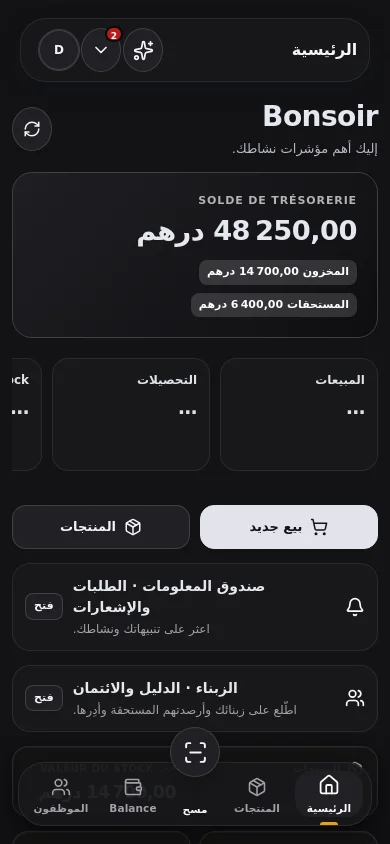
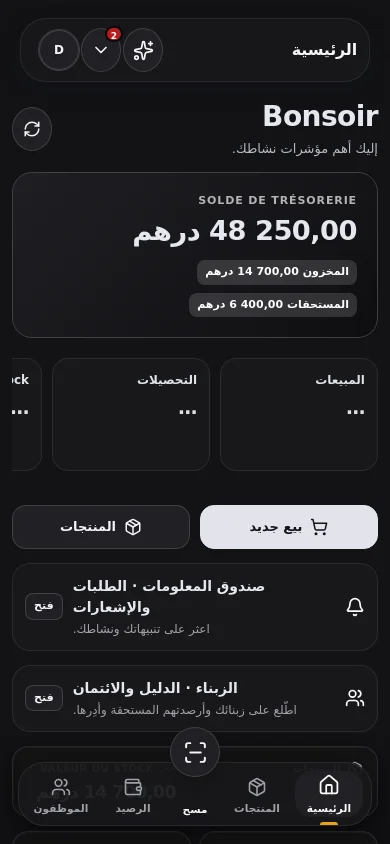
Polish Arabic RTL numbers and localized navigation

Changed region(s): [[0.3385, 0.2464, 0.6462, 0.3697], [0.2769, 0.955, 0.4, 0.9858]]

diff --git a/src/mobile/PhoneApp.tsx b/src/mobile/PhoneApp.tsx
@@ -1196,8 +1196,8 @@ export function PhoneProduits({ products, actions, onRefresh, onToast, loading =
     </div>
     <div className="ph-catalog-filters" role="group" aria-label="Filtrer les produits">
       <button type="button" aria-pressed={filter === 'all'} onClick={() => setFilter('all')}>Tous</button>
-      <button type="button" aria-pressed={filter === 'low'} onClick={() => setFilter('low')}>À réappro. ({lowCount})</button>
-      <button type="button" aria-pressed={filter === 'requests'} onClick={() => setFilter('requests')}>{getRole() === 'owner' || getRole() === 'admin' ? 'À valider' : 'Mes demandes'} ({requests.length})</button>
+      <button type="button" aria-pressed={filter === 'low'} onClick={() => setFilter('low')}><span>À réappro.</span> (<bdi dir="ltr">{lowCount}</bdi>)</button>
+      <button type="button" aria-pressed={filter === 'requests'} onClick={() => setFilter('requests')}><span>{getRole() === 'owner' || getRole() === 'admin' ? 'À valider' : 'Mes demandes'}</span> (<bdi dir="ltr">{requests.length}</bdi>)</button>
     </div>
     {showCreate && <PhoneProductCreate onClose={() => setShowCreate(false)} onCreated={(createdDirectly) => { setShowCreate(false); onToast(createdDirectly ? 'Produit créé au catalogue' : 'Demande envoyée à l’Admin'); onRefresh(createdDirectly ? 'products' : 'actions'); }} />}
     {filter !== 'requests' && loading && ready && <div className="ph-refresh-status" role="status">Actualisation du catalogue…</div>}
@@ -1205,10 +1205,10 @@ export function PhoneProduits({ products, actions, onRefresh, onToast, loading =
     {filter === 'requests' && actionsLoading && actionsReady && <div className="ph-refresh-status" role="status">Actualisation des demandes…</div>}
     {filter === 'requests' && actionsError && <p role="alert" className="ph-catalog-error">Impossible de charger les demandes. {actionsReady ? 'Les dernières données restent affichées.' : 'Vérifiez la connexion.'} <button type="button" onClick={() => onRefresh('actions')}>Réessayer</button></p>}
     {filter === 'requests' && !actionsReady && actionsLoading ? <PhoneSkeleton variant="rows" label="Chargement des demandes" /> : filter === 'requests' && !actionsReady ? null : filter !== 'requests' && !ready && loading ? <PhoneSkeleton variant={grid ? 'catalog-grid' : 'catalog-list'} label="Chargement du catalogue" /> : filter !== 'requests' && !ready ? null : filter === 'requests' ? <div className="ph-catalog-list">{requests.length ? requests.map(a => <div className="ph-catalog-card" key={a.id}><div className="ph-catalog-icon"><Package size={22} /></div><div><strong>{a.title}</strong><p>{a.detail || 'Demande en attente'}</p><small>En attente</small></div></div>) : <div className="ph-empty"><h2>Aucune demande en attente</h2></div>}</div> : <>
-      <div className="ph-catalog-summary" aria-live="polite"><span>{visible.length} résultat{visible.length === 1 ? '' : 's'}</span></div>
+      <div className="ph-catalog-summary" aria-live="polite"><span><bdi dir="ltr">{visible.length}</bdi> <span>{visible.length === 1 ? 'résultat' : 'résultats'}</span></span></div>
       <div className={`ph-catalog-list${grid ? ' is-grid' : ''}`}>{visible.map(p => <NavLink className="ph-catalog-card ph-catalog-product" to={`/m/products/${p.id}/historique`} key={p.id}>
         <ProductArtwork url={p.image_url} largeImageProductId={p.image_inline_large ? p.id : undefined} className="ph-catalog-art" />
-        <div className="ph-catalog-info"><strong>{p.name}</strong><p>{p.sku || p.barcode || 'Sans référence'}</p><small className={phoneStockIsLow(p) ? 'ph-low' : ''}>{p.track_inventory != null && !Number(p.track_inventory) ? 'Stock non suivi' : `Stock : ${dualStockLabel(p)} · min ${minOf(p)}`}</small></div>
+        <div className="ph-catalog-info"><strong translate="no" dir="auto">{p.name}</strong><p>{p.sku || p.barcode ? <bdi dir="ltr" translate="no">{p.sku || p.barcode}</bdi> : 'Sans référence'}</p><small className={phoneStockIsLow(p) ? 'ph-low' : ''}>{p.track_inventory != null && !Number(p.track_inventory) ? 'Stock non suivi' : <><span>Stock :</span> <bdi dir="ltr">{dualStockLabel(p)}</bdi> · <span>min</span> <bdi dir="ltr">{minOf(p)}</bdi></>}</small></div>
         {canSell() && typeof (p.unit_price ?? p.price) === 'number' && <strong className="ph-catalog-price">{priceOf(p).toLocaleString('fr-FR')} MAD</strong>}
       </NavLink>)}</div>
       {visible.length === 0 && <div className="ph-empty"><h2>Aucun produit</h2><p>Essayez une autre recherche ou actualisez le catalogue.</p></div>}

diff --git a/src/lib/pageTitle.ts b/src/lib/pageTitle.ts
@@ -1,11 +1,28 @@
+import { translate, type Lang } from '../i18n/core';
+
 /** Unique document titles per route — all under 60 characters. */
 
 const BRAND = 'Atlas';
 
 /** Exact path → title (no brand suffix yet). */
 const EXACT: Record<string, string> = {
-  '/': 'Tableau de bord',
+  '/': 'Accueil',
   '/dashboard': 'Tableau de bord',
+  '/android': 'Application Android',
+  '/download': 'Application Android',
+  '/desktop': 'Application bureau',
+  '/m': 'Accueil',
+  '/m/products': 'Produits & stock',
+  '/m/scan': 'Scan code-barres',
+  '/m/vente': 'Vente rapide',
+  '/m/balance': 'Solde & mouvements',
+  '/m/bills': "Factures d'achat",
+  '/m/employees': 'Employés',
+  '/m/warehouse': 'Opérations stock',
+  '/m/invoice': 'Devis',
+  '/m/settings': 'Paramètres',
+  '/m/agent': 'Atlas Agent',
+  '/m/more': 'Paramètres',
   '/actions': 'Actions en attente',
   '/products': 'Produits & stock',
   '/scan': 'Scan code-barres',
@@ -38,30 +55,31 @@ const EXACT: Record<string, string> = {
   '/403': 'Accès refusé',
 };
 
-function withBrand(page: string): string {
-  const full = `${page} · ${BRAND}`;
-  return full.length <= 60 ? full : page.slice(0, 60);
+function withBrand(page: string, lang: Lang): string {
+  const localPage = translate(page, lang);
+  const full = `${localPage} · ${translate(BRAND, lang)}`;
+  return full.length <= 60 ? full : localPage.slice(0, 60);
 }
 
 /**
  * Resolve a unique <title> for a location pathname.
  * Dynamic segments (ids) get a stable generic title.
  */
-export function titleForPath(pathname: string): string {
+export function titleForPath(pathname: string, lang: Lang = 'fr'): string {
   const path = (pathname || '/').replace(/\/+$/, '') || '/';
 
-  if (EXACT[path]) return withBrand(EXACT[path]);
+  if (EXACT[path]) return withBrand(EXACT[path], lang);
 
   // Dynamic desktop routes
-  if (/^\/p\/[^/]+$/.test(path)) return withBrand('Détail produit');
-  if (/^\/products\/[^/]+\/historique$/.test(path)) return withBrand('Historique du produit');
-  if (/^\/quick-sale\/[^/]+$/.test(path)) return withBrand('Détail vente rapide');
-  if (/^\/invoices\/[^/]+$/.test(path)) return withBrand('Détail facture');
-  if (/^\/error\/[^/]+$/.test(path)) return withBrand('Erreur');
-  if (path.startsWith('/settings')) return withBrand('Paramètres');
-  if (path === '/m-legacy') return withBrand('Mobile');
+  if (/^\/p\/[^/]+$/.test(path)) return withBrand('Détail produit', lang);
+  if (/^\/products\/[^/]+\/historique$/.test(path)) return withBrand('Historique du produit', lang);
+  if (/^\/quick-sale\/[^/]+$/.test(path)) return withBrand('Détail vente rapide', lang);
+  if (/^\/invoices\/[^/]+$/.test(path)) return withBrand('Détail facture', lang);
+  if (/^\/error\/[^/]+$/.test(path)) return withBrand('Erreur', lang);
+  if (path.startsWith('/settings')) return withBrand('Paramètres', lang);
+  if (path === '/m-legacy') return withBrand('Mobile', lang);
 
-  return withBrand('Atlas Commerce');
+  return withBrand('Atlas Commerce', lang);
 }
 
 const DEFAULT_DESC =
@@ -83,8 +101,8 @@ function setMeta(attr: 'name' | 'property', key: string, content: string) {
 }
 
 /** Title + Open Graph / Twitter cards for the current route. */
-function applyPageMeta(pathname: string): void {
-  const title = titleForPath(pathname);
+function applyPageMeta(pathname: string, lang: Lang): void {
+  const title = titleForPath(pathname, lang);
   try {
     document.title = title;
   } catch {
@@ -103,6 +121,6 @@ function applyPageMeta(pathname: string): void {
 }
 
 // Keep legacy name working
-export function applyPageTitle(pathname: string): void {
-  applyPageMeta(pathname);
+export function applyPageTitle(pathname: string, lang: Lang = 'fr'): void {
+  applyPageMeta(pathname, lang);
 }

diff --git a/src/i18n/messages.ts b/src/i18n/messages.ts
@@ -704,7 +704,7 @@ export const MESSAGES: ReadonlyArray<readonly [string, string, string]> = [
   ["Vérification par QR", "QR verification", "التحقق برمز QR"],
   ["Vos clients scannent et vérifient l’authenticité d’un reçu en une seconde.", "Your customers can scan and verify a receipt in seconds.", "يمكن لعملائك مسح الإيصال والتحقق من صحته في ثوانٍ."],
   ["Agent IA intégré", "Built-in AI agent", "وكيل ذكاء اصطناعي مدمج"],
-  ["Posez vos questions en français et explorez vos données selon vos permissions. Exemple fictif ci-dessus.", "Ask questions in French and explore data according to your permissions. Fictional example above.", "اطرح أسئلتك بالفرنسية واستكشف بياناتك وفق صلاحياتك. المثال أعلاه وهمي."],
+  ["Posez vos questions dans votre langue et explorez vos données selon vos permissions. Exemple fictif ci-dessus.", "Ask questions in your language and explore data according to your permissions. Fictional example above.", "اطرح أسئلتك بلغتك واستكشف بياناتك وفق صلاحياتك. المثال أعلاه وهمي."],
   ["02 / AU QUOTIDIEN", "02 / DAY TO DAY", "02 / في عملك اليومي"],
   ["Moins d’allers-retours. Plus de clarté.", "Less back-and-forth. More clarity.", "تنقل أقل. وضوح أكثر."],
   ["Une vue d’ensemble pour passer du produit à la vente, puis retrouver les informations qui comptent.", "An overview from product to sale, with the information that matters.", "نظرة شاملة من المنتج إلى البيع، مع المعلومات المهمة في متناولك."],
@@ -1704,4 +1704,28 @@ export const MESSAGES: ReadonlyArray<readonly [string, string, string]> = [
   ["Grille", "Grid", "شبكة"],
   ["Référence", "Reference", "المرجع"],
   ["≤ seuil", "≤ threshold", "≤ الحد"],
+  // Navigation titles, language picker and mobile catalogue
+  ["Terminé", "Done", "تم"],
+  ["Stock :", "Stock:", "المخزون:"],
+  ["min", "min", "الحد الأدنى"],
+  ["HT", "Before tax", "قبل الضريبة"],
+  ["TTC", "Total", "الإجمالي"],
+  ["Actions en attente", "Pending actions", "الإجراءات المعلقة"],
+  ["Scan code-barres", "Barcode scan", "مسح الباركود"],
+  ["Clôtures de caisse (X / Z)", "Cash closings (X / Z)", "إغلاق الصندوق (X / Z)"],
+  ["Support & assistance", "Support & assistance", "الدعم والمساعدة"],
+  ["Page introuvable", "Page not found", "الصفحة غير موجودة"],
+  ["Accès refusé", "Access denied", "الوصول مرفوض"],
+  ["Détail produit", "Product details", "تفاصيل المنتج"],
+  ["Historique du produit", "Product history", "سجل المنتج"],
+  ["Détail vente rapide", "Quick sale details", "تفاصيل البيع السريع"],
+  ["Mobile", "Mobile", "الهاتف"],
+  ["Application bureau", "Desktop application", "تطبيق سطح المكتب"],
+  ['Erreur', 'Error', 'خطأ'],
+  ['{n} k', '{n}k', '{n} ألف'],
+  ['À réappro.', 'Low stock', 'بحاجة للتزويد'],
+  ['À valider', 'To approve', 'بانتظار الموافقة'],
+  ['Mes demandes', 'My requests', 'طلباتي'],
+  ['résultat', 'result', 'نتيجة'],
+  ['résultats', 'results', 'نتائج'],
 ];

diff --git a/src/components/home/FeatureDemos.tsx b/src/components/home/FeatureDemos.tsx
@@ -5,6 +5,7 @@
  * Purely illustrative — every block is aria-hidden behind a figure label.
  */
 import type { ReactNode } from 'react';
+import { useLang } from '../../i18n/core';
 import { ArrowUp, Box, FileText, Package, Pencil, QrCode, SlidersHorizontal, Sparkles, Trash2 } from 'lucide-react';
 
 function Frame({ label, className, children }: { label: string; className: string; children: ReactNode }) {
@@ -40,11 +41,13 @@ function ProductCard({ name, sku, price, qty, stock, tone }: { name: string; sku
 }
 
 export function StockDemo() {
+  const lang = useLang();
+  const names = lang === 'ar' ? ['رخام كارارا أبيض', 'غرانيت زيمبابوي أسود'] : lang === 'en' ? ['White Carrara marble', 'Black Zimbabwe granite'] : ['Marbre Carrara blanc', 'Granit noir Zimbabwe'];
   return (
     <Frame label="Catalogue produits Atlas : cartes produit avec niveaux de stock (données fictives)" className="hm-live-stock">
       <div className="hl-pgrid">
-        <ProductCard name="Marbre Carrara blanc" sku="MAR-001 · Marbre" price="420 MAD" qty="42 m²" stock="ok" tone="stone" />
-        <ProductCard name="Granit noir Zimbabwe" sku="GRA-014 · Granit" price="560 MAD" qty="6 m²" stock="low" tone="night" />
+        <ProductCard name={names[0]} sku="MAR-001 · Marbre" price="420 MAD" qty="42 m²" stock="ok" tone="stone" />
+        <ProductCard name={names[1]} sku="GRA-014 · Granit" price="560 MAD" qty="6 m²" stock="low" tone="night" />
       </div>
     </Frame>
   );
@@ -81,6 +84,7 @@ export function SalesDemo() {
 }
 
 export function InvoiceDemo() {
+  const lang = useLang();
   return (
     <Frame label="Lignes d’une facture de vente avec totaux HT, TVA et TTC (données fictives)" className="hm-live-invoice">
       <div className="hl-panel">
@@ -89,14 +93,14 @@ export function InvoiceDemo() {
           <span className="hl-badge is-success">Payée</span>
         </div>
         <div className="hl-lines">
-          <div className="hl-line"><span>Marbre Carrara blanc — 60×60</span><i>24 × 420</i><b>10 080</b></div>
-          <div className="hl-line"><span>Onyx miel — plan vasque</span><i>2 × 1 850</i><b>3 700</b></div>
+          <div className="hl-line"><span>{lang === 'ar' ? 'رخام كارارا أبيض' : lang === 'en' ? 'White Carrara marble' : 'Marbre Carrara blanc'} — <bdi dir="ltr">60×60</bdi></span><i>24 × 420</i><b>10 080</b></div>
+          <div className="hl-line"><span>{lang === 'ar' ? 'أونيكس عسلي — سطح مغسلة' : lang === 'en' ? 'Honey onyx — vanity top' : 'Onyx miel — plan vasque'}</span><i>2 × 1 850</i><b>3 700</b></div>
         </div>
         <div className="hl-totals">
           <span className="hl-pill is-dark"><FileText size={10} />PDF</span>
           <span className="hl-pill"><QrCode size={10} />QR</span>
           <span className="hl-grow" />
-          <span className="hl-tot"><i>HT 13 780</i><i>TVA 2 756</i><b>TTC 16 536 MAD</b></span>
+          <span className="hl-tot"><i><span>HT</span> <bdi dir="ltr">13 780</bdi></i><i><span>TVA</span> <bdi dir="ltr">2 756</bdi></i><b><span>TTC</span> <span className="hl-currency"><bdi dir="ltr">16 536</bdi> <span>MAD</span></span></b></span>
         </div>
       </div>
     </Frame>

diff --git a/src/__tests__/i18n-core.test.ts b/src/__tests__/i18n-core.test.ts
@@ -66,11 +66,11 @@ describe('i18n core', () => {
     retranslateAll(); await tick();
     expect(document.querySelector('.amount')!.textContent).toBe('1 260 DH');
     setLang('ar'); retranslateAll(); await tick();
-    expect(document.querySelector('.amount')!.textContent).toBe('\u20671 260 درهم\u2069');
-    expect(document.querySelector('.dh')!.textContent).toBe('\u206742 درهم\u2069');
-    expect(document.querySelector('.area')!.textContent).toBe('\u206742 م²\u2069');
-    expect(document.querySelector('.mass')!.textContent).toBe('\u2067-2,5 كغ\u2069');
-    expect(document.querySelector('.volume')!.textContent).toBe('\u20673 م³\u2069');
+    expect(document.querySelector('.amount')!.textContent).toBe('\u2067\u20661\u00a0260\u2069\u00a0درهم\u2069');
+    expect(document.querySelector('.dh')!.textContent).toBe('\u2067\u206642\u2069\u00a0درهم\u2069');
+    expect(document.querySelector('.area')!.textContent).toBe('\u2067\u206642\u2069\u00a0م²\u2069');
+    expect(document.querySelector('.mass')!.textContent).toBe('\u2067\u2066-2,5\u2069\u00a0كغ\u2069');
+    expect(document.querySelector('.volume')!.textContent).toBe('\u2067\u20663\u2069\u00a0م³\u2069');
     expect(document.querySelector('[data-user-data]')!.textContent).toBe('Model MAD 12');
     setLang('en'); await tick();
     expect(document.querySelector('.amount')!.textContent).toBe('1 260 MAD');
@@ -79,12 +79,12 @@ describe('i18n core', () => {
   });
 
   it('translates textarea placeholders and day abbreviations without altering input', async () => {
-    document.body.innerHTML = '<textarea placeholder="Décrivez le module concerné, les étapes effectuées et le résultat attendu...">Texte personnel</textarea><span>31–60 j</span>';
+    document.body.innerHTML = '<textarea placeholder="Décrivez le module concerné, les étapes effectuées et le résultat attendu...">Texte personnel</textarea><span>1–30 j</span>';
     setLang('ar'); retranslateAll(); await tick();
     const field = document.querySelector('textarea')!;
     expect(field.placeholder).toContain('صِف الوحدة');
     expect(field.value).toBe('Texte personnel');
-    expect(document.querySelector('span')!.textContent).toBe('\u206731–60 يوم\u2069');
+    expect(document.querySelector('span')!.textContent).toBe('\u2067\u20661–30\u2069\u00a0يوم\u2069');
     setLang('fr'); await tick();
     expect(field.placeholder).toContain('Décrivez');
   });

diff --git a/src/components/LanguageSoonDialog.tsx b/src/components/LanguageSoonDialog.tsx
@@ -23,6 +23,7 @@ export const LanguageSoonDialog: FC<{ open: boolean; onClose: () => void }> = ({
 
   useEffect(() => {
     if (!open) return undefined;
+    const previousFocus = document.activeElement instanceof HTMLElement ? document.activeElement : null;
     const onKey = (e: KeyboardEvent) => {
       if (e.key === 'Escape') onCloseRef.current();
     };
@@ -31,6 +32,7 @@ export const LanguageSoonDialog: FC<{ open: boolean; onClose: () => void }> = ({
     return () => {
       window.removeEventListener('keydown', onKey);
       window.clearTimeout(t);
+      if (previousFocus?.isConnected) previousFocus.focus();
     };
     // Only `open` drives this effect: parents pass inline callbacks, and re-running it on
     // every parent render re-focused the button and could look like the popup reset itself.
@@ -63,6 +65,16 @@ export const LanguageSoonDialog: FC<{ open: boolean; onClose: () => void }> = ({
                   type="button"
                   role="radio"
                   aria-checked={selected}
+                  tabIndex={selected ? 0 : -1}
+                  onKeyDown={(event) => {
+                    const index = LANGS.findIndex((item) => item.code === l.code);
+                    const delta = event.key === 'ArrowDown' || event.key === 'ArrowRight' ? 1 : event.key === 'ArrowUp' || event.key === 'ArrowLeft' ? -1 : 0;
+                    if (!delta) return;
+                    event.preventDefault();
+                    const next = (index + delta + LANGS.length) % LANGS.length;
+                    setLang(LANGS[next].code);
+                    event.currentTarget.closest('[role="radiogroup"]')?.querySelectorAll<HTMLButtonElement>('[role="radio"]')[next]?.focus();
+                  }}
                   className={`ac-lang-row${selected ? ' is-current' : ''}`}
                   onClick={() => setLang(l.code)}
                 >

diff --git a/src/styles/rtl.css b/src/styles/rtl.css
@@ -201,3 +201,18 @@ html body .ac-login-lang > button[aria-pressed="true"]:not(#lang-g):not(#lang-h)
 /* Align the bounded hero description with the Arabic heading and actions. */
 html[dir="rtl"] .home-landing .hm-sub { margin-left: 0; margin-right: 0; }
 html[dir="rtl"] .home-landing .hm-hero-copy { margin-left: 0; margin-right: 0; }
+
+/* Preserve the visual reading order of grouped Latin-digit amounts in Arabic. */
+html[dir="rtl"] .home-landing .hm-live .hl-tot { align-items: flex-start; }
+html[dir="rtl"] .home-landing .hm-live .hl-tot :is(i, b) { text-align: right; }
+html[dir="rtl"] .home-landing .hm-live .hl-currency { direction: rtl; unicode-bidi: isolate; }
+html[dir="rtl"] .home-landing .hm-release-link { float: right; }
+html[dir="rtl"] .home-landing .hm-hero-copy { clear: both; }
+/* Give the public wordmark breathing room within the navigation pill. */
+html[dir="rtl"] .home-landing header nav > a:first-child { margin-inline-start: 10px; }
+/* Clear rows and selection state in the language chooser, without altering focus. */
+html body .ac-lang-list > li > button.ac-lang-row:not(#lang-g):not(#lang-h):not(#lang-i) { min-height: 54px !important; padding: 10px 14px !important; }
+html body .ac-lang-list > li > button.ac-lang-row.is-current:not(#lang-g):not(#lang-h):not(#lang-i) { background: rgba(196, 92, 38, .08) !important; }
+html[data-theme="dark"] body .ac-lang-list > li > button.ac-lang-row.is-current:not(#lang-g):not(#lang-h):not(#lang-i) { background: rgba(248, 180, 120, .12) !important; }
+
+html[dir="rtl"] .home-landing .hm-live .hl-tot bdi { white-space: nowrap; }

diff --git a/src/__tests__/language-dialog-i18n.test.ts b/src/__tests__/language-dialog-i18n.test.ts
@@ -1,0 +1,28 @@
+// @vitest-environment happy-dom
+import { act, createElement } from 'react';
+import { createRoot } from 'react-dom/client';
+import { afterEach, describe, expect, it, vi } from 'vitest';
+import { installI18n, retranslateAll, setLang } from '../i18n';
+import { LanguageSoonDialog } from '../components/LanguageSoonDialog';
+
+(globalThis as { IS_REACT_ACT_ENVIRONMENT?: boolean }).IS_REACT_ACT_ENVIRONMENT = true;
+installI18n();
+afterEach(() => { setLang('fr'); document.body.innerHTML = ''; });
+
+describe('localized language chooser', () => {
+  it('localizes Done and supports keyboard selection without losing focus', async () => {
+    const host = document.createElement('div'); document.body.appendChild(host);
+    const root = createRoot(host);
+    const close = vi.fn();
+    await act(async () => root.render(createElement(LanguageSoonDialog, { open: true, onClose: close })));
+    const radios = [...document.querySelectorAll<HTMLButtonElement>('[role="radio"]')];
+    expect(radios).toHaveLength(3);
+    await act(async () => { radios[0].focus(); radios[0].dispatchEvent(new KeyboardEvent('keydown', { key: 'ArrowDown', bubbles: true })); });
+    retranslateAll(); await act(async () => { await new Promise((r) => setTimeout(r, 0)); });
+    expect(document.documentElement.lang).toBe('ar');
+    expect(radios[1].getAttribute('aria-checked')).toBe('true');
+    expect(document.activeElement).toBe(radios[1]);
+    expect(document.querySelector('.ac-lang-ok')?.textContent?.trim()).toBe('تم');
+    await act(async () => root.unmount());
+  });
+});

diff --git a/src/__tests__/localized-page-title.test.ts b/src/__tests__/localized-page-title.test.ts
@@ -1,0 +1,24 @@
+// @vitest-environment happy-dom
+import { describe, expect, it } from 'vitest';
+import { installI18n } from '../i18n';
+import { applyPageTitle, titleForPath } from '../lib/pageTitle';
+
+installI18n();
+
+describe('localized page titles', () => {
+  it('translates all fixed and dynamic routes in Arabic and English', () => {
+    const paths = ['/', '/dashboard', '/actions', '/products', '/scan', '/clients', '/employees', '/payroll', '/attendance', '/vendors', '/quotes', '/quick-sale', '/invoices', '/reimbursements', '/bills', '/receipts', '/balance', '/cash-shifts', '/reports', '/inventory-ops', '/settings', '/about', '/whats-new', '/privacy', '/licenses', '/terms', '/support', '/login', '/welcome', '/404', '/403', '/android', '/desktop', '/m', '/m/products', '/m/balance', '/m/agent', '/p/1', '/products/1/historique', '/invoices/1', '/quick-sale/1', '/error/500'];
+    for (const path of paths) {
+      expect(titleForPath(path, 'ar'), path).not.toBe(titleForPath(path, 'fr'));
+      expect(titleForPath(path, 'ar').split(' · ')[0], path).toMatch(/[\u0600-\u06ff]/);
+      expect(titleForPath(path, 'en'), path).toMatch(/Atlas/);
+    }
+  });
+  it('updates browser and social titles in the selected language', () => {
+    applyPageTitle('/dashboard', 'ar');
+    expect(document.title).toBe('لوحة القيادة · أطلس');
+    expect(document.querySelector('meta[property="og:title"]')?.getAttribute('content')).toBe(document.title);
+    applyPageTitle('/dashboard', 'en');
+    expect(document.title).toBe('Dashboard · Atlas');
+  });
+});

diff --git a/src/App.tsx b/src/App.tsx
@@ -6,6 +6,7 @@ import { canOpenPhoneBalance, canOpenPhoneEmployees } from './mobile/PhoneDock';
 import { BrowserRouter, Routes, Route, NavLink, Navigate, Link, Outlet, useNavigate, useLocation } from 'react-router-dom';
 import { SidebarBrandLogo } from './components/brand/SidebarBrandLogo';
 import { applyPageTitle, titleForPath } from './lib/pageTitle';
+import { getLang, LANG_EVENT } from './i18n/core';
 import Login from './pages/Login';
 import Privacy from './pages/Privacy';
 import Terms from './pages/Terms';
@@ -1633,15 +1634,17 @@ function PageTitleSync() {
   useEffect(() => {
     const sync = () => {
       try {
-        applyPageTitle(window.location.pathname || '/');
+        applyPageTitle(window.location.pathname || '/', getLang());
       } catch { /* */ }
     };
     sync();
     window.addEventListener('popstate', sync);
+    window.addEventListener(LANG_EVENT, sync);
     // React Router navigations don't always fire popstate — poll lightly
     const id = window.setInterval(sync, 800);
     return () => {
       window.removeEventListener('popstate', sync);
+      window.removeEventListener(LANG_EVENT, sync);
       window.clearInterval(id);
     };
   }, []);

diff --git a/src/i18n/dom.ts b/src/i18n/dom.ts
@@ -53,7 +53,7 @@ function translateDisplay(src: string, lang: Lang) {
     return out.replace(/\b(?:MAD|DH)\b/g, 'درهم').replace(/\bm²/g, 'م²').replace(/\bm³/g, 'م³')
       .replace(/\bWindows\b/g, 'ويندوز').replace(/\bmacOS\b/gi, 'ماك أو إس').replace(/\bLinux\b/g, 'لينكس').replace(/\bAndroid\b/g, 'أندرويد')
       .replace(/(\d)\s*(m²|m³|mL|kg|cm|pce|bte|ctn|paq|g|L|m|u|j)(?![A-Za-zÀ-ÿ0-9])/g, (_, digit: string, unit: string) => `${digit} ${units[unit]}`)
-      .replace(/([-+]?\d[\d\u00a0\u202f ,.]*\d(?:[–-]\d+)?|[-+]?\d)\s*(درهم|م²|م³|كغ|غ|لتر|مل|م|سم|وحدة|قطعة|علبة|كرتون|عبوة|يوم)(?![\u0621-\u064a])/g, '\u2067$1 $2\u2069');
+      .replace(/([-+]?\d(?:[\d\u00a0\u202f ,.]*\d)?(?:[–-]\d+)?)\s*(درهم|م²|م³|كغ|غ|لتر|مل|م|سم|وحدة|قطعة|علبة|كرتون|عبوة|يوم|ألف)(?![\u0621-\u064a])/g, (_, number: string, unit: string) => `\u2067\u2066${number.replace(/(?<=\d)[ \u202f]+(?=\d)/g, '\u00a0')}\u2069\u00a0${unit}\u2069`);
   }
   if (lang === 'en') return out.replace(/\bDH\b/g, 'MAD');
   return out.replace(/\bMAD\b/g, 'DH');

diff --git a/src/pages/Home.tsx b/src/pages/Home.tsx
@@ -157,7 +157,7 @@ export default function Home() {
             <div className="hm-bento-card rise">
               <AgentDemo />
               <h3>Agent IA intégré</h3>
-              <p>Posez vos questions en français et explorez vos données selon vos permissions. Exemple fictif ci-dessus.</p>
+              <p>Posez vos questions dans votre langue et explorez vos données selon vos permissions. Exemple fictif ci-dessus.</p>
             </div>
           </div>
         </section>
